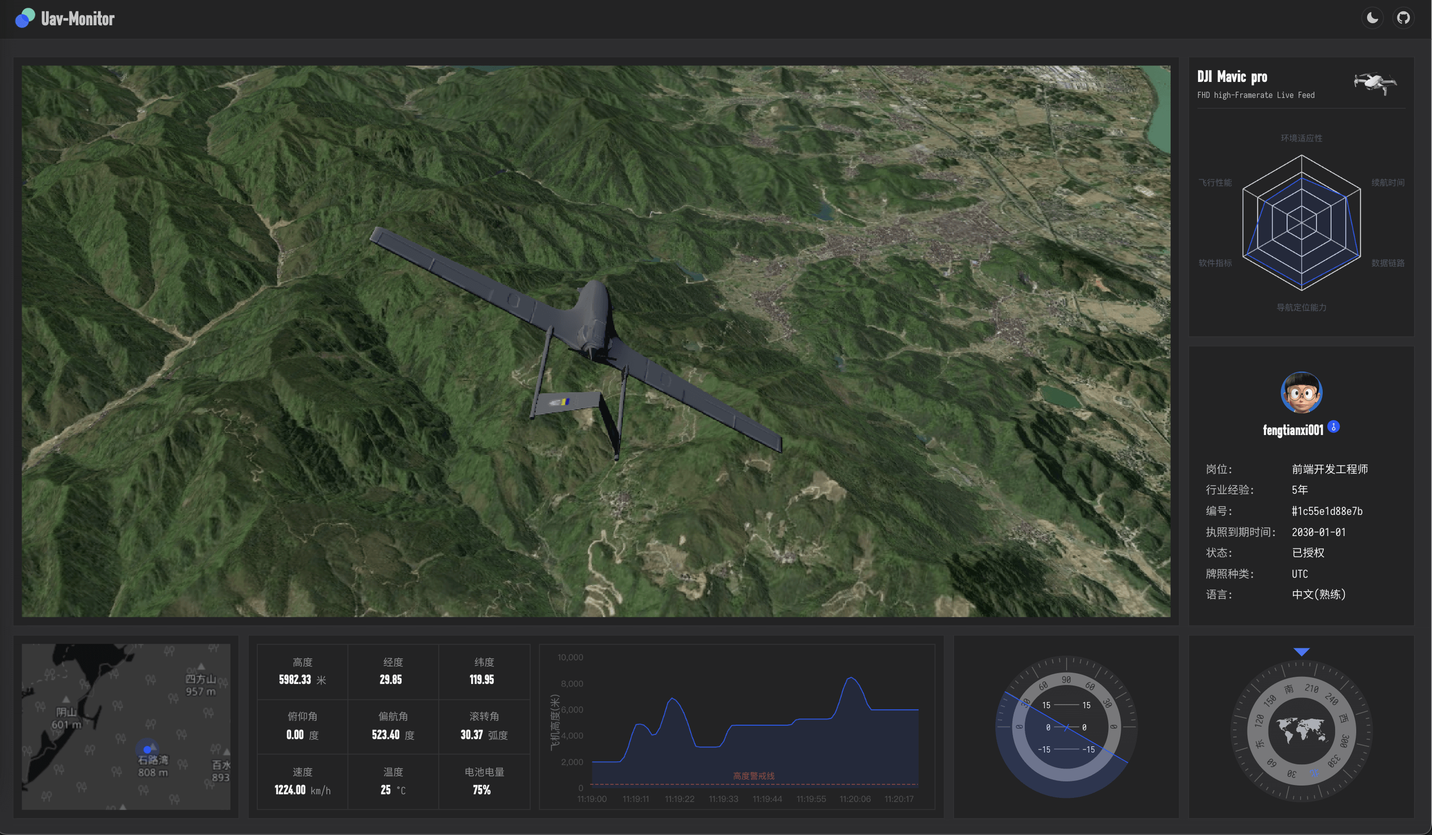
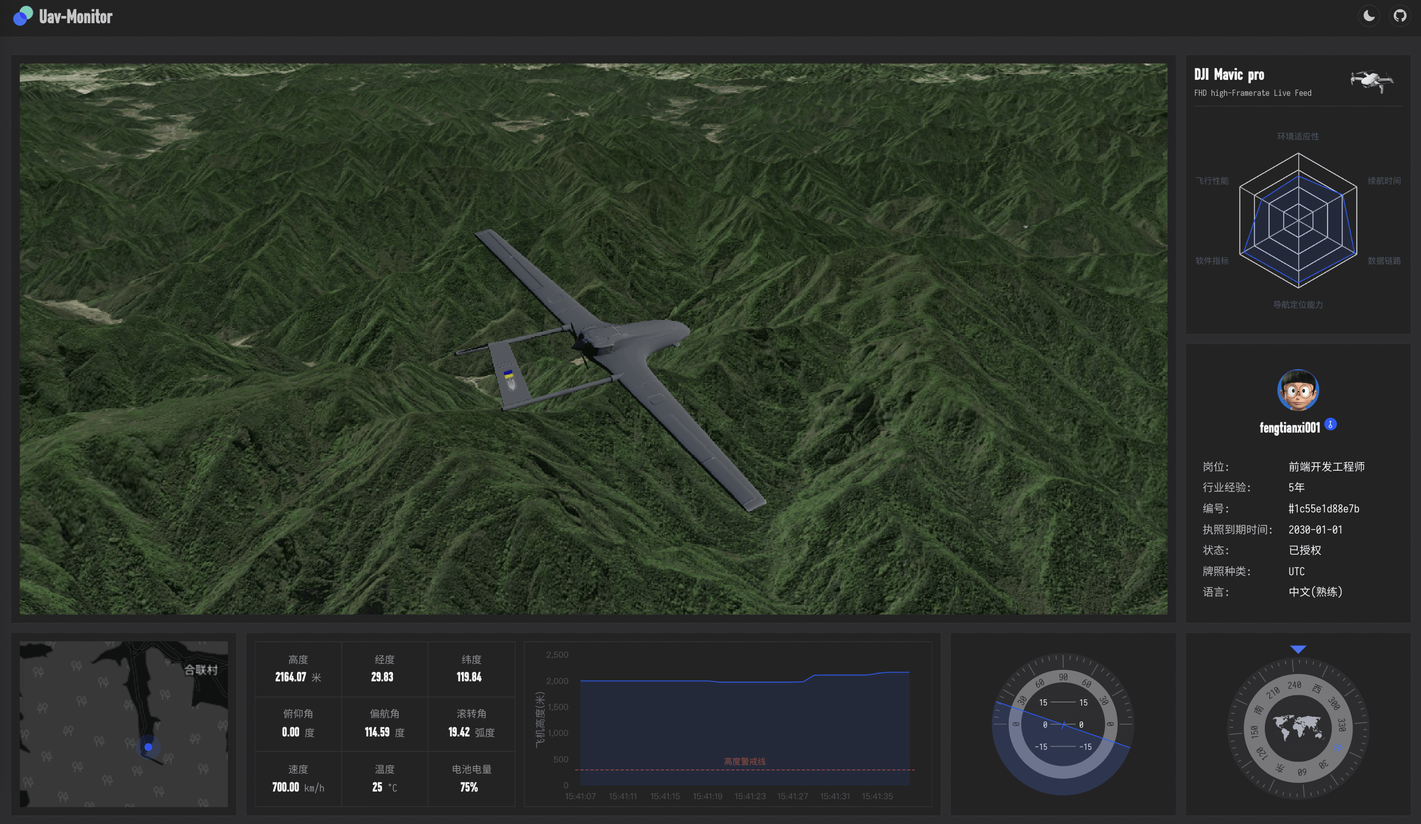
docs: 文档更新

diff --git a/README.md b/README.md
@@ -8,10 +8,16 @@
   <img src="https://github.com/fengtianxi001/MF-UavMonitor/blob/master/screenshots/screenshot01.png?raw=true" title="screenshot">
 </h1>
 
-//todo 无人机操作
+## 更新日志
 
-- 静止时不要移动
-- 镜头跟随着机头进行旋转 （切换第一人称视角）
-- 面板数据跟随飞行参数进行更新
-- 飞行参数告警
-- 飞行器样式更新
+##### v2.0.0
+
+- [x] 新增信息面板
+- [x] 新增陀螺水平仪
+- [x] 新增指南针面板
+- [x] 新增高度仪面板
+- [x] 对项目代码结构进行简化
+- [x] 对项目界面进行优化
+- [ ] 镜头跟随着机头
+- [ ] 切换第一人称视角
+- [ ] 飞行参数告警
